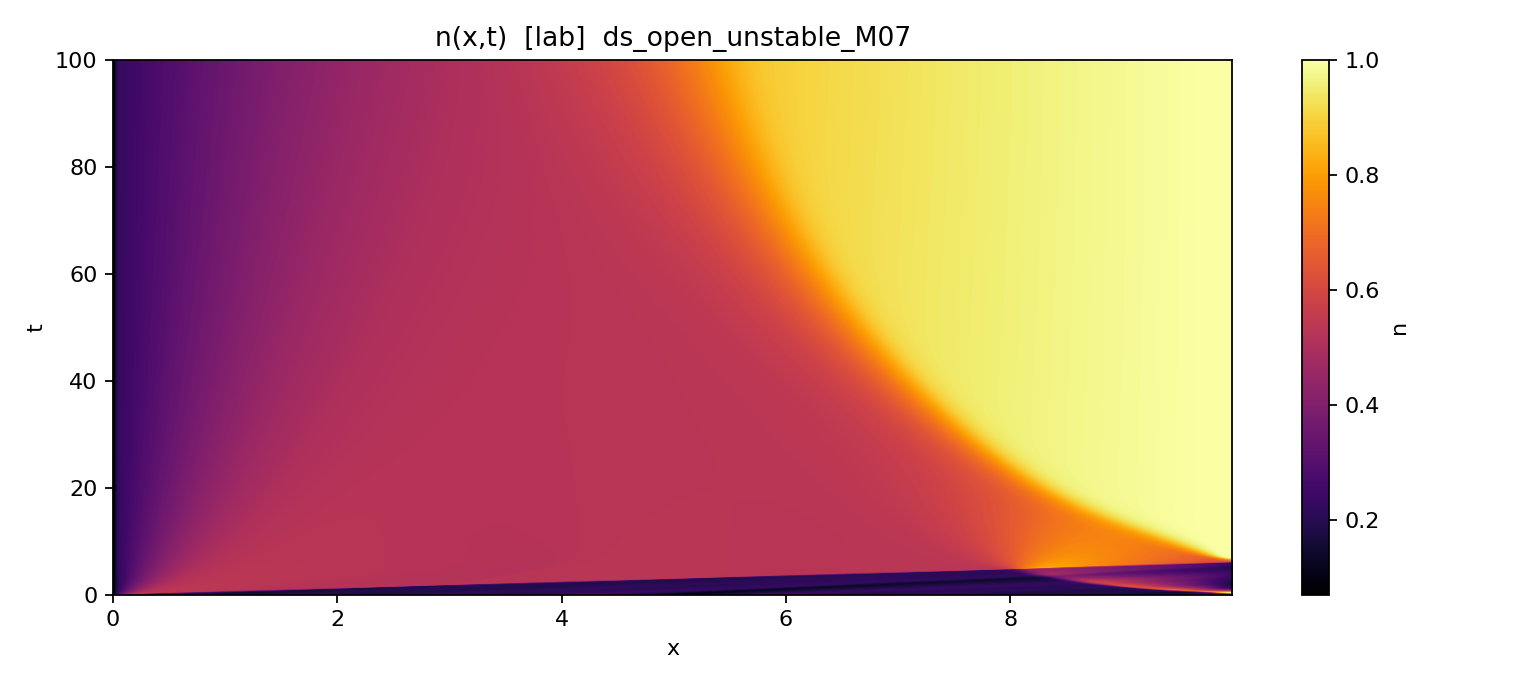
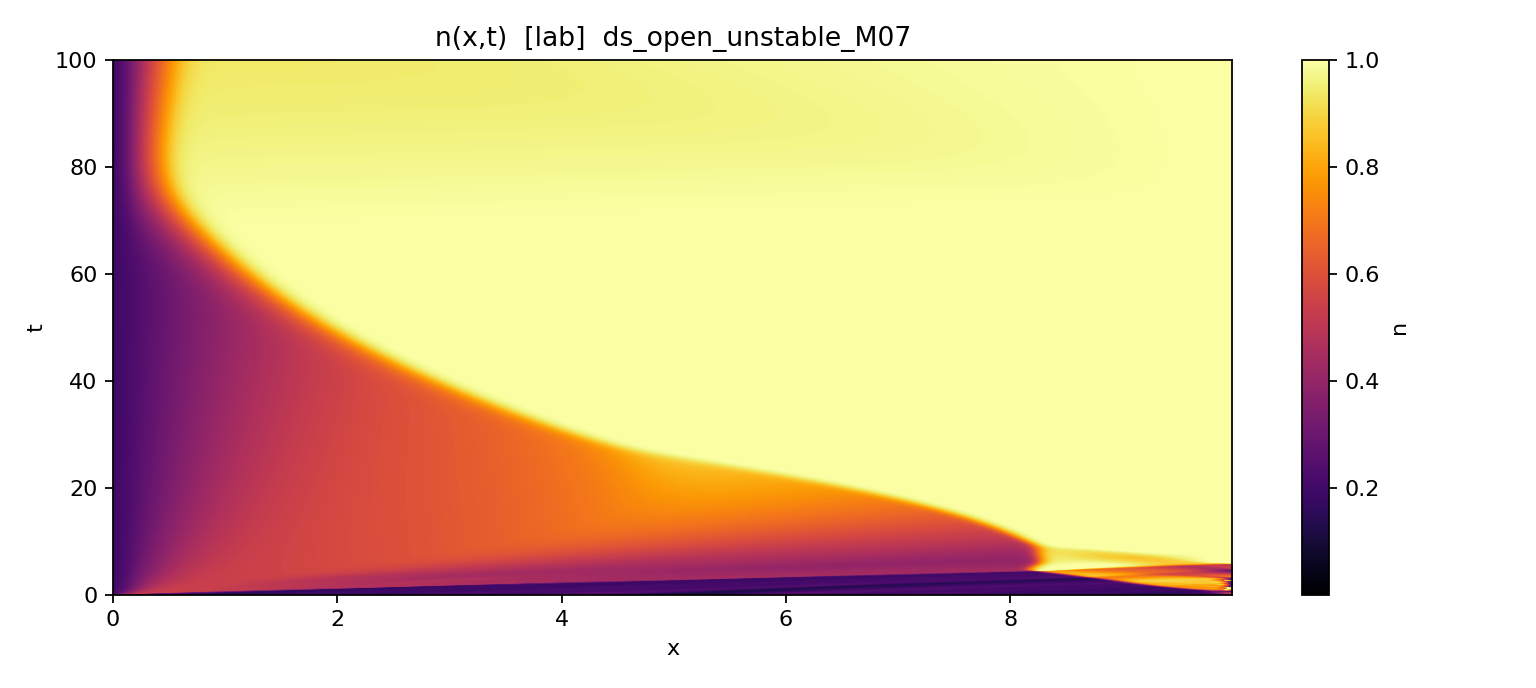
hard Dirichlet boundary conditions for density and momentum in DS/open case

diff --git a/dn vs u_d/main.py b/dn vs u_d/main.py
@@ -598,12 +598,12 @@ def apply_ds_open_relaxation(n, p, dn_dt, dp_dt):
     left_mask[:N_bc]  = 1.0
     right_mask[-N_bc:] = 1.0
 
-    # Optional: taper the mask so it's strongest at the edges
-    # This makes the transition smoother and more numerically stable
-    if N_bc >= 2:
-        w = np.linspace(1.0, 0.0, N_bc)
-        left_mask[:N_bc]  *= w
-        right_mask[-N_bc:] *= w[::-1]
+    # Optional taper – disabled for a stronger, flat reservoir
+    # Uncomment below if you want smoother transitions
+    # if N_bc >= 2:
+    #     w = np.linspace(1.0, 0.0, N_bc)
+    #     left_mask[:N_bc]  *= w
+    #     right_mask[-N_bc:] *= w[::-1]
 
     n_eq_source  = par.nbar0
     p_eq_drain   = par.m * par.nbar0 * par.u_d
@@ -618,7 +618,25 @@ def apply_ds_open_relaxation(n, p, dn_dt, dp_dt):
     # Drain: pin momentum/current, leave density mostly free
     dp_dt += gamma_p * right_mask * (p_eq_drain - p)
 
-    return dn_dt, dp_dt 
+    return dn_dt, dp_dt
+
+def enforce_ds_open_bc_state(n, p):
+    """
+    Hard Dirichlet boundary conditions for DS/open case.
+    This is applied directly to the *state* arrays (n, p),
+    typically after each explicit RK step.
+
+    - Source (x ≈ 0): fix density to nbar0
+    - Drain (x ≈ L): fix momentum/current to m * nbar0 * u_d
+    """
+    if par.bc_type != "ds_open":
+        return
+
+    # Left: density contact
+    n[0] = par.nbar0
+
+    # Right: momentum/current contact
+    p[-1] = par.m * par.nbar0 * par.u_d
 
 def rhs(t, y, E_base):
     N = par.Nx
@@ -988,6 +1006,13 @@ def integrate_explicit_ds_open(y0, t_span, t_eval, E_base, worker_id=0):
         np.clip(n, par.n_floor, n_cap, out=n)
         # soft ceiling on momentum
         np.clip(p, -p_cap, p_cap, out=p)
+
+        # Hard DS/open Dirichlet BC on the *state*
+        enforce_ds_open_bc_state(n, p)
+
+        # write back into y (n and p are views, so this updates y)
+        y[:N] = n
+        y[N:] = p
 
         # write output if we just hit / passed an output time
         while out_idx < n_out and t >= T[out_idx] - 1e-12:
@@ -2108,8 +2133,9 @@ if __name__ == "__main__":
     par.tau_bc_n = 0.5       # relax n on timescale ~0.5
     par.tau_bc_p = 0.5       # relax p on timescale ~0.5
 
-    # Drift maintenance
-    par.maintain_drift = "field"
+    # Drift maintenance: use feedback to keep <u> ≈ u_d
+    par.maintain_drift = "feedback"
+    par.Kp = 0.15   # feedback gain (tweak if needed)
 
     par.outdir = "out_ds_open_unstable_M07"
 
